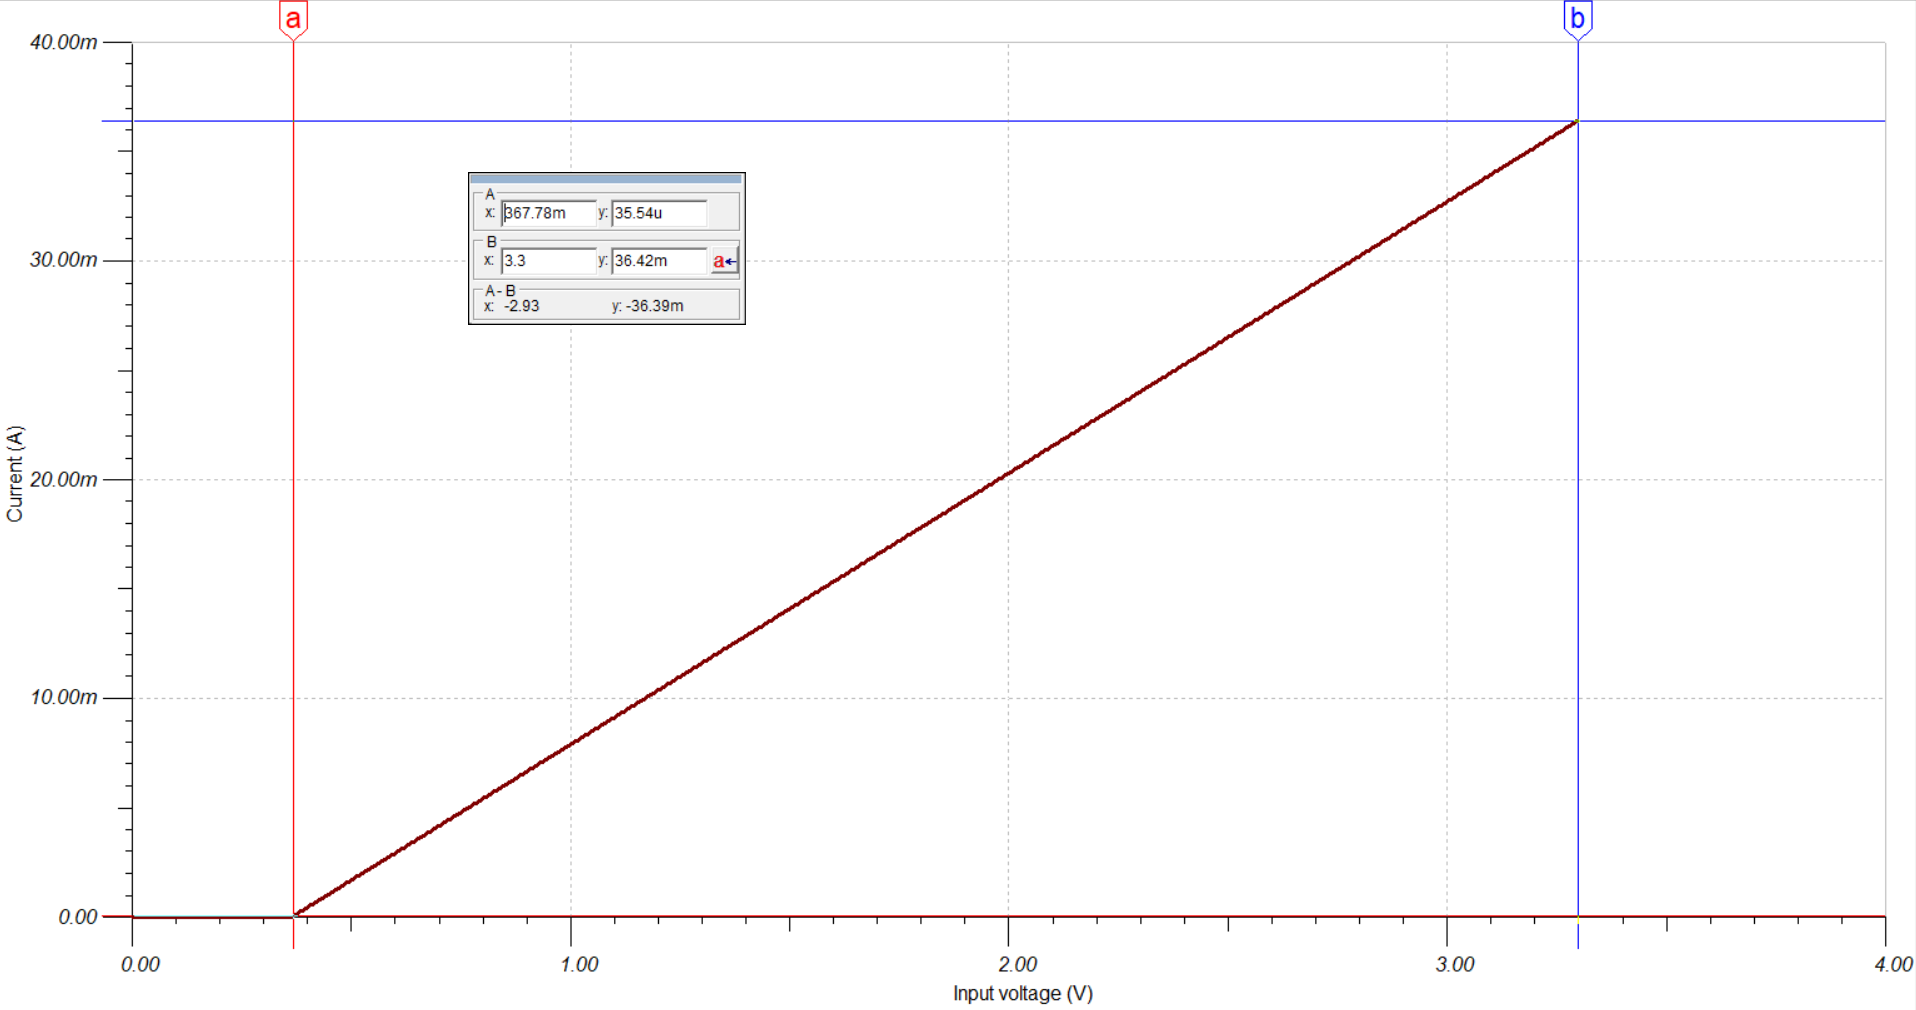
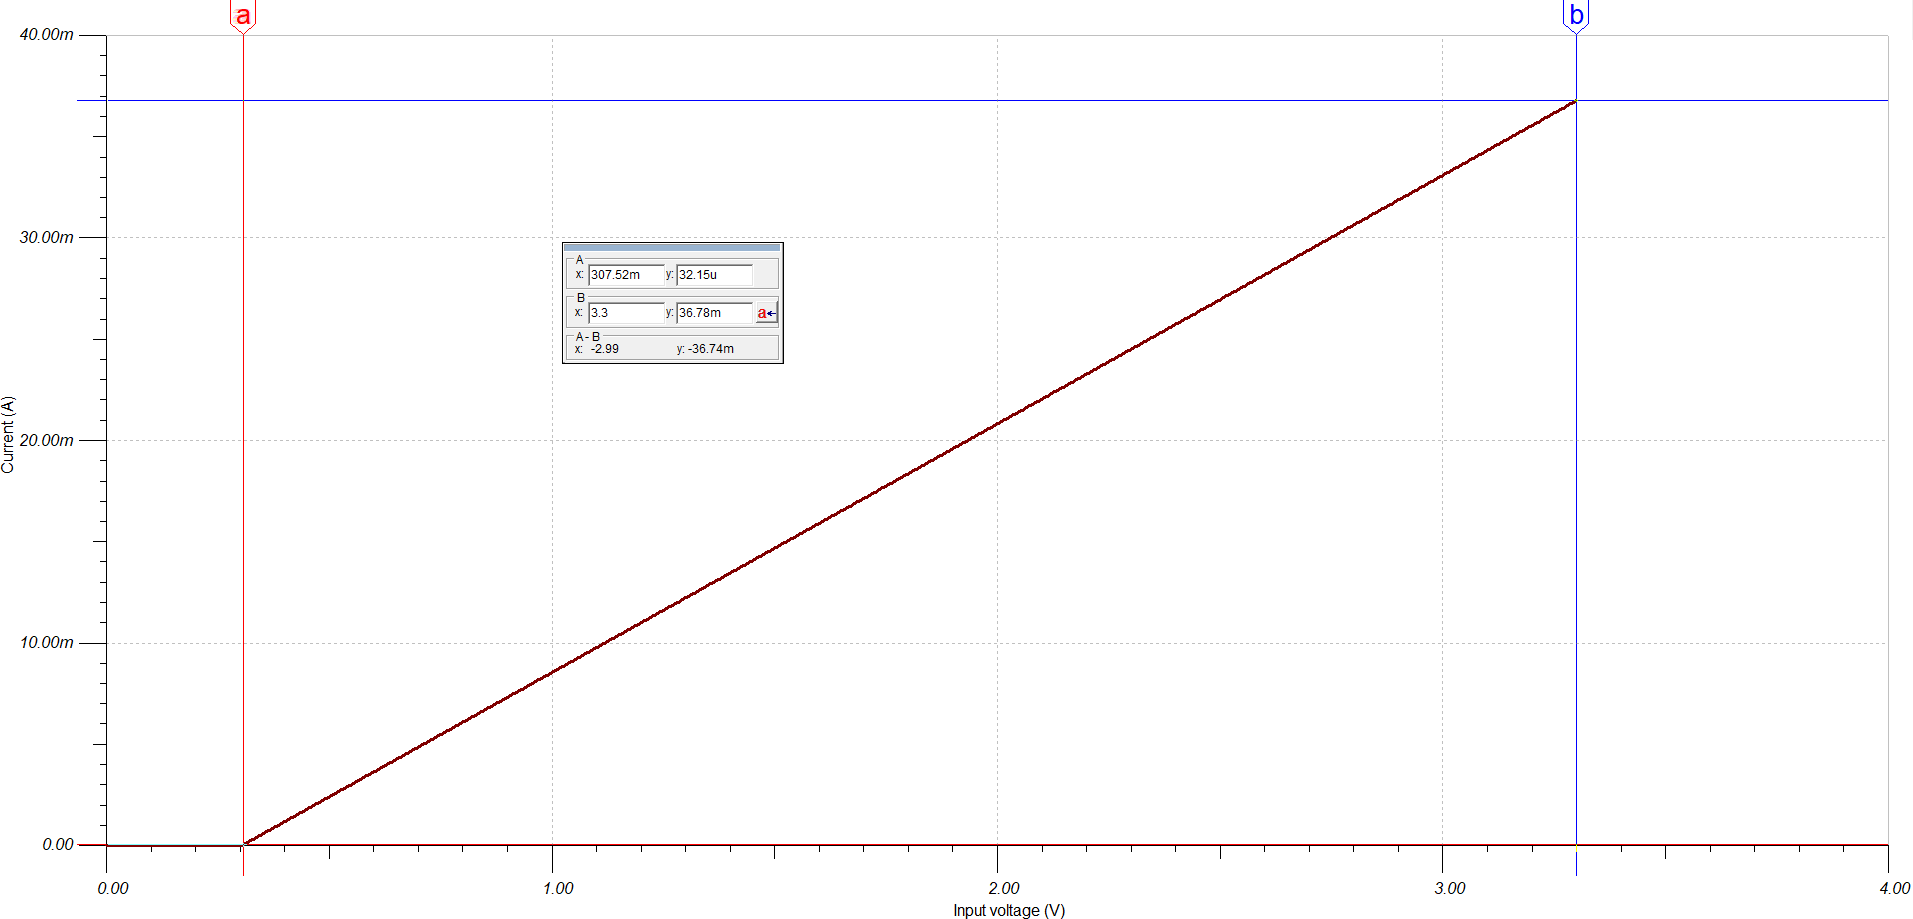
add simulate current source

diff --git a/chapters/chuong3.tex b/chapters/chuong3.tex
@@ -1244,7 +1244,7 @@ Khối SPI Flash sử dụng dòng S25FL-L (S25FL128L/S25FL256L), là bộ nhớ
 \begin{figure}[H]
     \centering
     \includegraphics[width=1\textwidth]{picture/if/spi-sw.png}
-    \\caption{Sơ đồ nguyên lí khối SPI SWITCH giữa MPU và FPGA}
+    \caption{Sơ đồ nguyên lí khối SPI SWITCH giữa MPU và FPGA}
     \label{fig:if-spi-sw}
 \end{figure}
 
@@ -1286,6 +1286,18 @@ Sử dụng phần mềm TINA-TI để mô phỏng nguồn dòng trong thiết k
     \caption{Sơ đồ mô phỏng nguồn dòng cho internal laser}
     \label{fig:laser-simulate-current-int}
 \end{figure}
+
+Mạch mô phỏng bao gồm 2 tầng opamp. Tầng đầu tiên là tầng mạch đệm có thêm bộ lọc để triệt nhiễu ngõ vào và bảo đảm tách rời khỏi tầng opamp thứ hai. Tầng thứ hai là tầng chính để thực hiện mạch chuyển đổi điện áp sang dòng điện (V-I converter). Tín hiệu ngõ vào có dải điện áp từ 0 đến 3.3V.
+
+Dựa vào công thức tính nguồn dòng:
+$
+I_{source} = \frac{V_{cc} - V_{s}}{R_{5}}
+$
+
+Ở đây khi mô phỏng và tính toán, dòng mong muốn khoảng 12\,mA, do đó chọn giá trị điện trở shunt; trong thiết kế $\R_{shunt} = 280\,\Omega&.
+
+Do sụt áp trên laser internal OPV302 theo datasheet là tối đa khoảng 2.2V, với dòng thiết kế 12\,mA nên giả sử trong mạch mô phỏng thay OPV302 bằng điện trở có giá trị nhỏ hơn ngưỡng compliance voltage và cũng thỏa điều kiện rơi áp trên laser OPV312 khi có dòng chạy qua.
+
 
 \begin{figure}[H]
     \centering
@@ -1362,6 +1374,21 @@ Sử dụng tính năng DC Analysis Table để đo các mức điện áp tại
     \caption{Mạch tạo nguồn dòng cho laser diode}
     \label{fig:laser-current}
 \end{figure}
+
+\begin{figure}[H]
+    \centering
+    \includegraphics[width=0.9\textwidth]{picture/laser/max-load-int.png}
+    \caption{Mạch tải cực đại cho nhánh internal laser}
+    \label{fig:laser-max-load-int}
+\end{figure}
+
+\begin{figure}[H]
+    \centering
+    \includegraphics[width=0.9\textwidth]{picture/laser/max-load-ext.png}
+    \caption{Mạch tải cực đại cho nhánh external laser}
+    \label{fig:laser-max-load-ext}
+\end{figure}
+
 
 \begin{figure}[H]
     \centering
